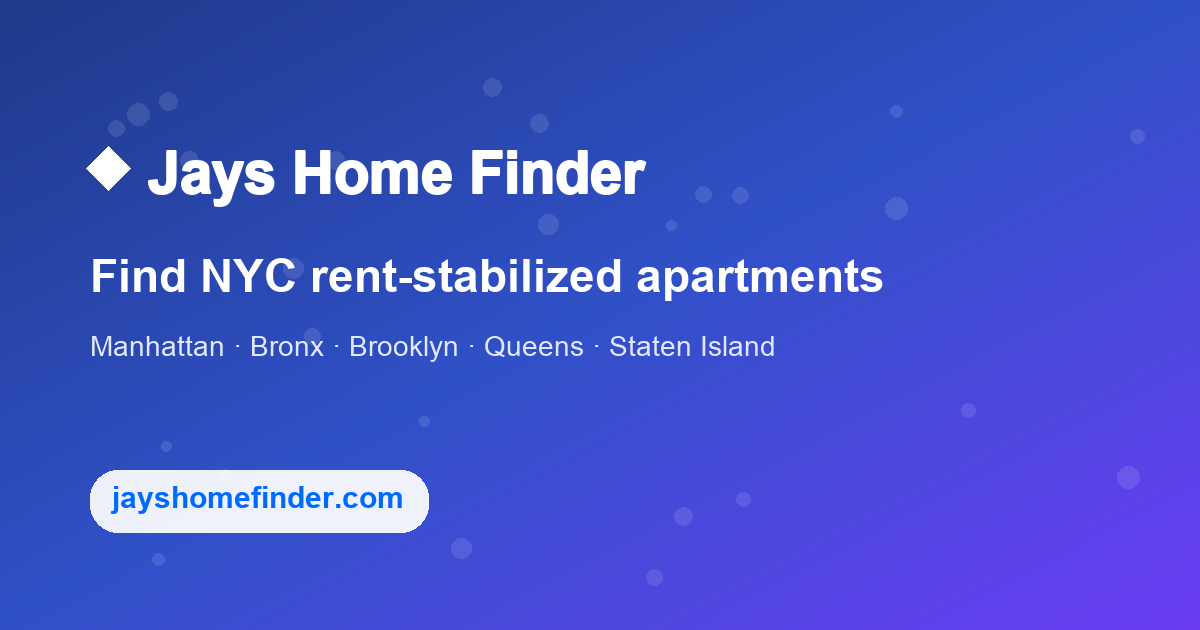
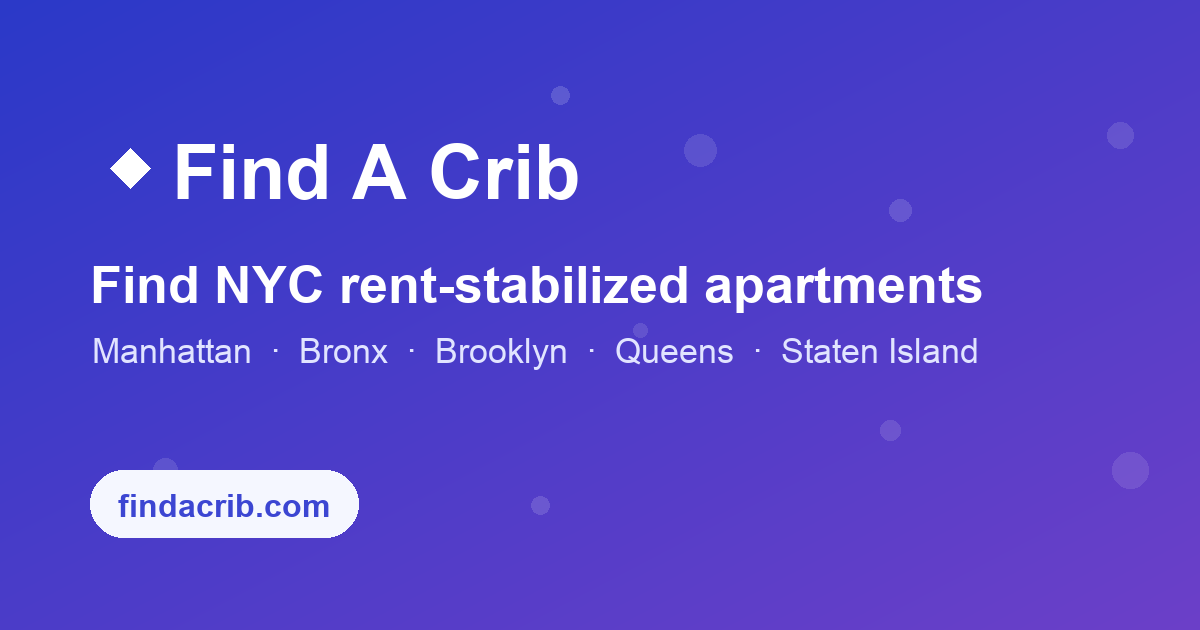
Rebrand to Find A Crib and move app to findacrib.com
Switch the primary domain from jayshomefinder.com to findacrib.com and
rename the brand from "Jays Home Finder" to "Find A Crib" everywhere it
is user-visible:

- index.html: OG/Twitter tags, og:url/og:image, header brand text, and
  the about copy now reference Find A Crib / findacrib.com.
- build_seo.py: SITE -> https://findacrib.com and all generated page
  titles, headers, footer, og tags, sitemaps and robots.txt rebranded;
  regenerated all 47,369 SEO pages.
- og-image.png: regenerated the social-share banner with the new brand
  and domain via the new scripts/make_og_image.py generator.

Server side (droplet 104.236.120.144): issued a Let's Encrypt cert for
findacrib.com + www, added an nginx server block serving /var/www/rent-map,
and converted the jayshomefinder.com config to a 301 redirect to
findacrib.com so existing links and SEO equity carry over.

diff --git a/index.html b/index.html
@@ -11,18 +11,18 @@
 <link rel="apple-touch-icon" href="/apple-touch-icon.png" />
 <!-- Open Graph: rich link preview in iMessage, Slack, Facebook, etc. -->
 <meta property="og:type" content="website" />
-<meta property="og:site_name" content="Jays Home Finder" />
-<meta property="og:title" content="Rent-Stabilized NYC — Jays Home Finder" />
+<meta property="og:site_name" content="Find A Crib" />
+<meta property="og:title" content="Rent-Stabilized NYC — Find A Crib" />
 <meta property="og:description" content="Find NYC rent-stabilized apartments across Manhattan, Bronx, Brooklyn, Queens & Staten Island." />
-<meta property="og:url" content="https://jayshomefinder.com/" />
-<meta property="og:image" content="https://jayshomefinder.com/og-image.png" />
+<meta property="og:url" content="https://findacrib.com/" />
+<meta property="og:image" content="https://findacrib.com/og-image.png" />
 <meta property="og:image:width" content="1200" />
 <meta property="og:image:height" content="630" />
 <!-- Twitter/X large card -->
 <meta name="twitter:card" content="summary_large_image" />
-<meta name="twitter:title" content="Rent-Stabilized NYC — Jays Home Finder" />
+<meta name="twitter:title" content="Rent-Stabilized NYC — Find A Crib" />
 <meta name="twitter:description" content="Find NYC rent-stabilized apartments across Manhattan, Bronx, Brooklyn, Queens & Staten Island." />
-<meta name="twitter:image" content="https://jayshomefinder.com/og-image.png" />
+<meta name="twitter:image" content="https://findacrib.com/og-image.png" />
 <link rel="stylesheet" href="https://unpkg.com/leaflet@1.9.4/dist/leaflet.css" />
 <link rel="stylesheet" href="https://unpkg.com/leaflet.markercluster@1.5.3/dist/MarkerCluster.css" />
 <link rel="stylesheet" href="https://unpkg.com/leaflet.markercluster@1.5.3/dist/MarkerCluster.Default.css" />
@@ -434,7 +434,7 @@
 </head>
 <body>
 <header class="topbar">
-  <div class="brand"><span class="brand-dot"></span><span class="brand-text">Jays Home Finder<span class="brand-sub">(NYC Rent Stabilized Homes)</span></span></div>
+  <div class="brand"><span class="brand-dot"></span><span class="brand-text">Find A Crib<span class="brand-sub">(NYC Rent Stabilized Homes)</span></span></div>
   <button id="auth-btn" type="button" class="auth-btn">Sign in</button>
   <div class="filter-bar">
     <input class="search-input" id="q" type="text" placeholder="Address, neighborhood, ZIP, or BBL" />
@@ -1579,7 +1579,7 @@
      per-neighborhood SEO pages (generated by build_seo.py) and flow link equity. -->
 <nav class="seo-nav" aria-label="Browse rent-stabilized buildings by neighborhood">
   <h2>Find rent-stabilized apartments in NYC</h2>
-  <p>Jays Home Finder maps every DHCR-registered rent-stabilized building in New York City.
+  <p>Find A Crib maps every DHCR-registered rent-stabilized building in New York City.
      Browse all <a href="/buildings/">neighborhoods</a>, or by borough:
      <a href="/borough/manhattan/">Manhattan</a>, <a href="/borough/brooklyn/">Brooklyn</a>,
      <a href="/borough/queens/">Queens</a>, <a href="/borough/bronx/">the Bronx</a>,

diff --git a/scripts/make_og_image.py b/scripts/make_og_image.py
@@ -1,0 +1,63 @@
+#!/usr/bin/env python3
+"""Regenerate the social-share banner (og-image.png) for Find A Crib.
+
+1200x630, blue gradient, diamond accent + brand, subtitle, borough list,
+and a white pill with the domain. Run: python3 scripts/make_og_image.py
+"""
+import os
+from PIL import Image, ImageDraw, ImageFont
+
+W, H = 1200, 630
+OUT = os.path.join(os.path.dirname(os.path.dirname(os.path.abspath(__file__))), "og-image.png")
+
+# diagonal gradient: deep blue (top-left) -> indigo/violet (bottom-right)
+c1 = (43, 57, 200)    # 2b39c8
+c2 = (108, 64, 200)   # 6c40c8
+img = Image.new("RGB", (W, H))
+px = img.load()
+for y in range(H):
+    for x in range(W):
+        t = (x / W + y / H) / 2
+        px[x, y] = (int(c1[0] + (c2[0]-c1[0])*t),
+                    int(c1[1] + (c2[1]-c1[1])*t),
+                    int(c1[2] + (c2[2]-c1[2])*t))
+d = ImageDraw.Draw(img, "RGBA")
+
+# subtle decorative dots
+import math
+def dot(cx, cy, r, a):
+    d.ellipse([cx-r, cy-r, cx+r, cy+r], fill=(255, 255, 255, a))
+for (cx, cy, r, a) in [(560,95,9,40),(700,150,16,30),(900,210,11,35),
+                       (1120,135,13,30),(165,470,12,30),(540,505,9,35),
+                       (1130,470,18,28),(890,430,10,30),(640,330,7,30)]:
+    dot(cx, cy, r, a)
+
+BOLD = "/Library/Fonts/Arial Bold.ttf"
+if not os.path.exists(BOLD):
+    BOLD = "/System/Library/Fonts/Supplemental/Arial Bold.ttf"
+REG = "/System/Library/Fonts/Supplemental/Arial.ttf"
+f_brand = ImageFont.truetype(BOLD, 76)
+f_sub   = ImageFont.truetype(BOLD, 52)
+f_boro  = ImageFont.truetype(REG, 34)
+f_pill  = ImageFont.truetype(BOLD, 32)
+
+# diamond accent + brand
+d.polygon([(110,168),(130,148),(150,168),(130,188)], fill=(255,255,255,255))
+d.text((172, 130), "Find A Crib", font=f_brand, fill="white")
+# subtitle
+d.text((90, 255), "Find NYC rent-stabilized apartments", font=f_sub, fill="white")
+# borough list
+d.text((92, 332), "Manhattan  ·  Bronx  ·  Brooklyn  ·  Queens  ·  Staten Island",
+       font=f_boro, fill=(225, 228, 255, 255))
+# domain pill
+pill_text = "findacrib.com"
+tb = d.textbbox((0,0), pill_text, font=f_pill)
+tw, th = tb[2]-tb[0], tb[3]-tb[1]
+px0, py0 = 90, 470
+padx, pady = 28, 18
+d.rounded_rectangle([px0, py0, px0+tw+padx*2, py0+th+pady*2+8],
+                    radius=33, fill=(245, 247, 255, 255))
+d.text((px0+padx, py0+pady), pill_text, font=f_pill, fill=(60, 70, 210, 255))
+
+img.save(OUT, "PNG")
+print("wrote", OUT, img.size)

diff --git a/build_seo.py b/build_seo.py
@@ -19,7 +19,7 @@ import re
 import html
 from collections import defaultdict
 
-SITE = "https://jayshomefinder.com"
+SITE = "https://findacrib.com"
 OUT = os.path.join(os.path.dirname(os.path.abspath(__file__)), "seo")
 
 BORO_NAME = {"M": "Manhattan", "Bk": "Brooklyn", "Q": "Queens",
@@ -91,18 +91,18 @@ def page(title, desc, canonical, body, jsonld=None):
 <meta name="description" content="{esc(desc)}">
 <link rel="canonical" href="{canonical}">
 <link rel="icon" href="/favicon.ico" sizes="any">
-<meta property="og:type" content="website"><meta property="og:site_name" content="Jays Home Finder">
+<meta property="og:type" content="website"><meta property="og:site_name" content="Find A Crib">
 <meta property="og:title" content="{esc(title)}"><meta property="og:description" content="{esc(desc)}">
 <meta property="og:url" content="{canonical}"><meta property="og:image" content="{SITE}/og-image.png">
 <meta name="twitter:card" content="summary_large_image">
 <style>{CSS}</style>{ld}</head><body>
-<header class="site"><a class="brand" href="/">🏠 Jays Home Finder</a> &nbsp;·&nbsp;
+<header class="site"><a class="brand" href="/">🏠 Find A Crib</a> &nbsp;·&nbsp;
 <a href="/buildings/">All neighborhoods</a></header>
 <main>{body}</main>
 <footer class="site">Data: NYC DHCR 2024 rent-stabilized building files, NYC PLUTO (coordinates),
 and NYC HPD Open Data (owner, violations, complaints). A building's rent-stabilized status reflects
 DHCR registration; it is not a guarantee that a specific unit is available or currently stabilized.
-&copy; Jays Home Finder. <a href="/">Open the interactive map →</a></footer>
+&copy; Find A Crib. <a href="/">Open the interactive map →</a></footer>
 </body></html>"""
 
 
@@ -222,7 +222,7 @@ def main():
                 + owner_html + cond_html + near_html)
 
         write(url.strip("/") + "/index.html",
-              page(f"Is {addr} rent stabilized? — {nb}, {boro} | Jays Home Finder",
+              page(f"Is {addr} rent stabilized? — {nb}, {boro} | Find A Crib",
                    f"{addr} in {nb}, {boro} is a NYC rent-stabilized building. See units, year built, owner, and HPD violations.",
                    canonical, body, jsonld))
         urls.append((canonical, "0.6", b["b"]))
@@ -246,7 +246,7 @@ def main():
                 f"<a class='cta' href='/'>Explore {esc(nb)} on the map →</a>"
                 f"<h2>All {n:,} buildings</h2><div class='cols'>{links}</div>")
         write(url.strip("/") + "/index.html",
-              page(f"Rent-stabilized buildings in {nb}, {boroname} ({n}) | Jays Home Finder",
+              page(f"Rent-stabilized buildings in {nb}, {boroname} ({n}) | Find A Crib",
                    f"All {n} rent-stabilized buildings in {nb}, {boroname}. Check any address for status, owner, and violations.",
                    canonical, body))
         urls.append((canonical, "0.7", boro))
@@ -269,7 +269,7 @@ def main():
                 f"<a class='cta' href='/'>Open the map →</a>"
                 f"<h2>Neighborhoods</h2><div class='cols'>{links}</div>")
         write(url.strip("/") + "/index.html",
-              page(f"Rent-stabilized buildings in {boroname} ({total}) | Jays Home Finder",
+              page(f"Rent-stabilized buildings in {boroname} ({total}) | Find A Crib",
                    f"Browse {total} rent-stabilized buildings across {boroname} by neighborhood.",
                    canonical, body))
         urls.append((canonical, "0.8", boro))
@@ -285,7 +285,7 @@ def main():
         hub_links += (f"<h2><a href='/borough/{BORO_SLUG[boro]}/'>{esc(boroname)}</a></h2>"
                       f"<div class='cols'>{nl}</div>")
     write("buildings/index.html",
-          page("NYC rent-stabilized buildings by neighborhood | Jays Home Finder",
+          page("NYC rent-stabilized buildings by neighborhood | Find A Crib",
                "Browse every NYC rent-stabilized building by borough and neighborhood — Manhattan, Brooklyn, Queens, the Bronx, Staten Island.",
                SITE + "/buildings/",
                f"<h1>NYC rent-stabilized buildings</h1><p class='lead'>Browse all "